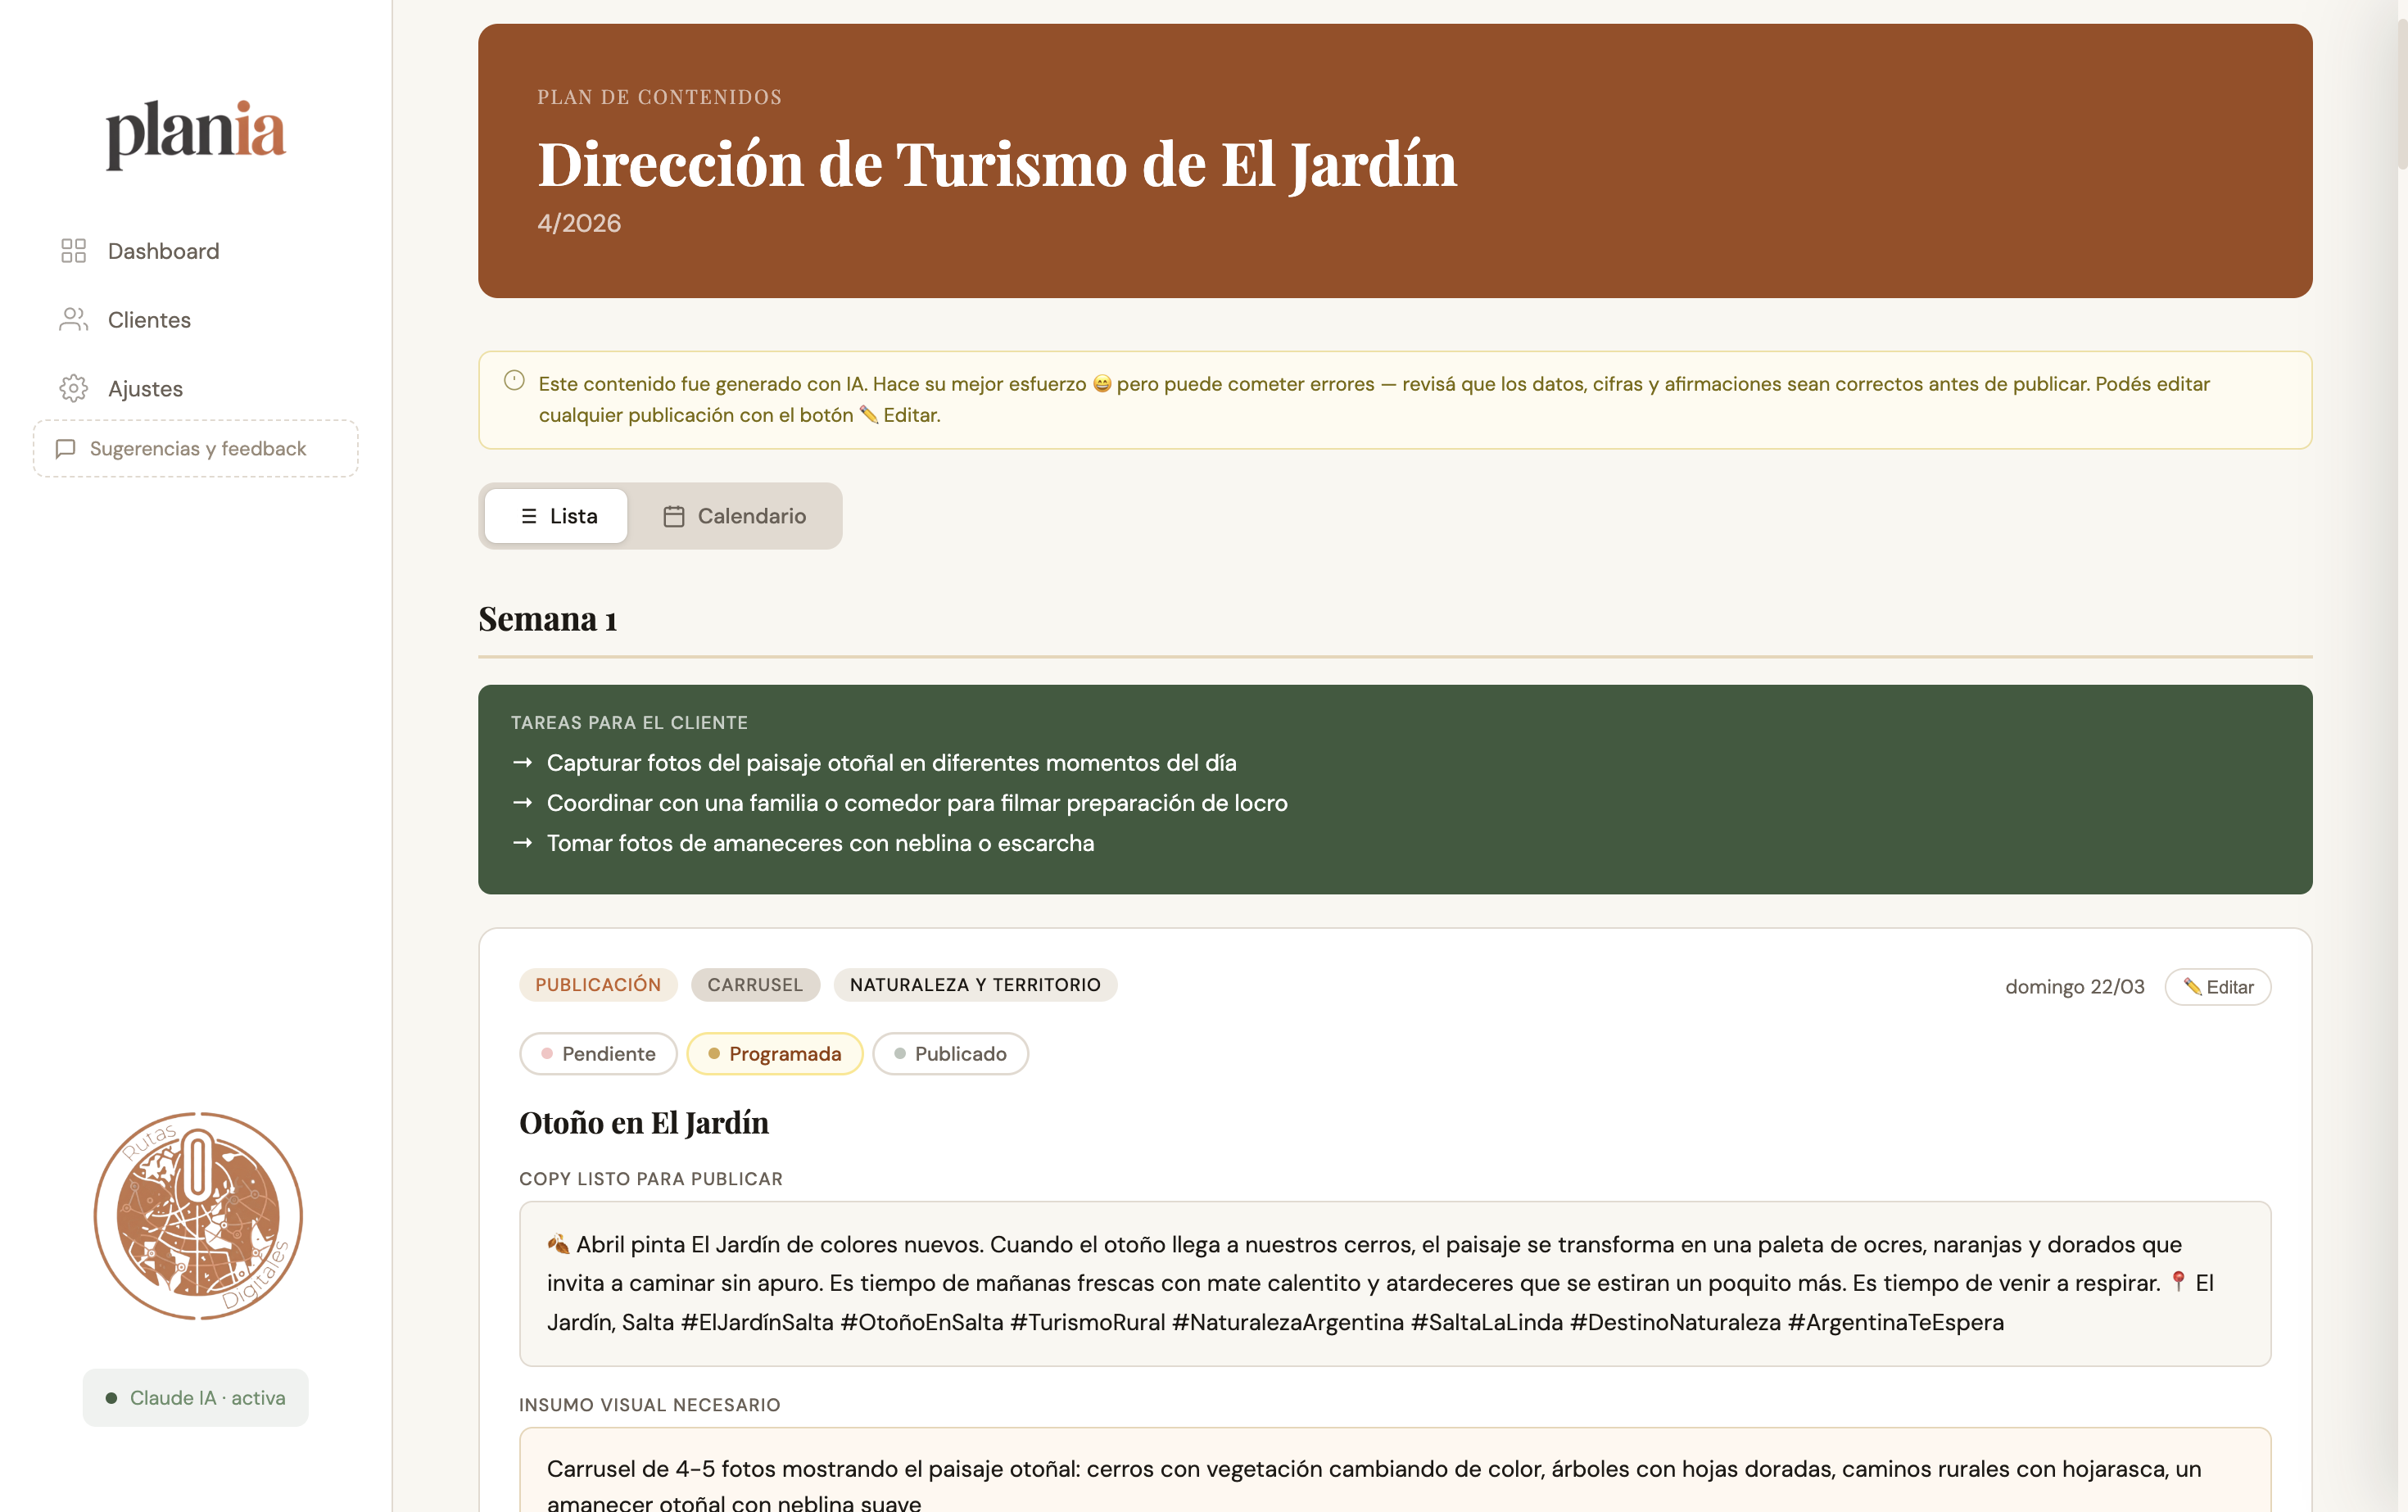
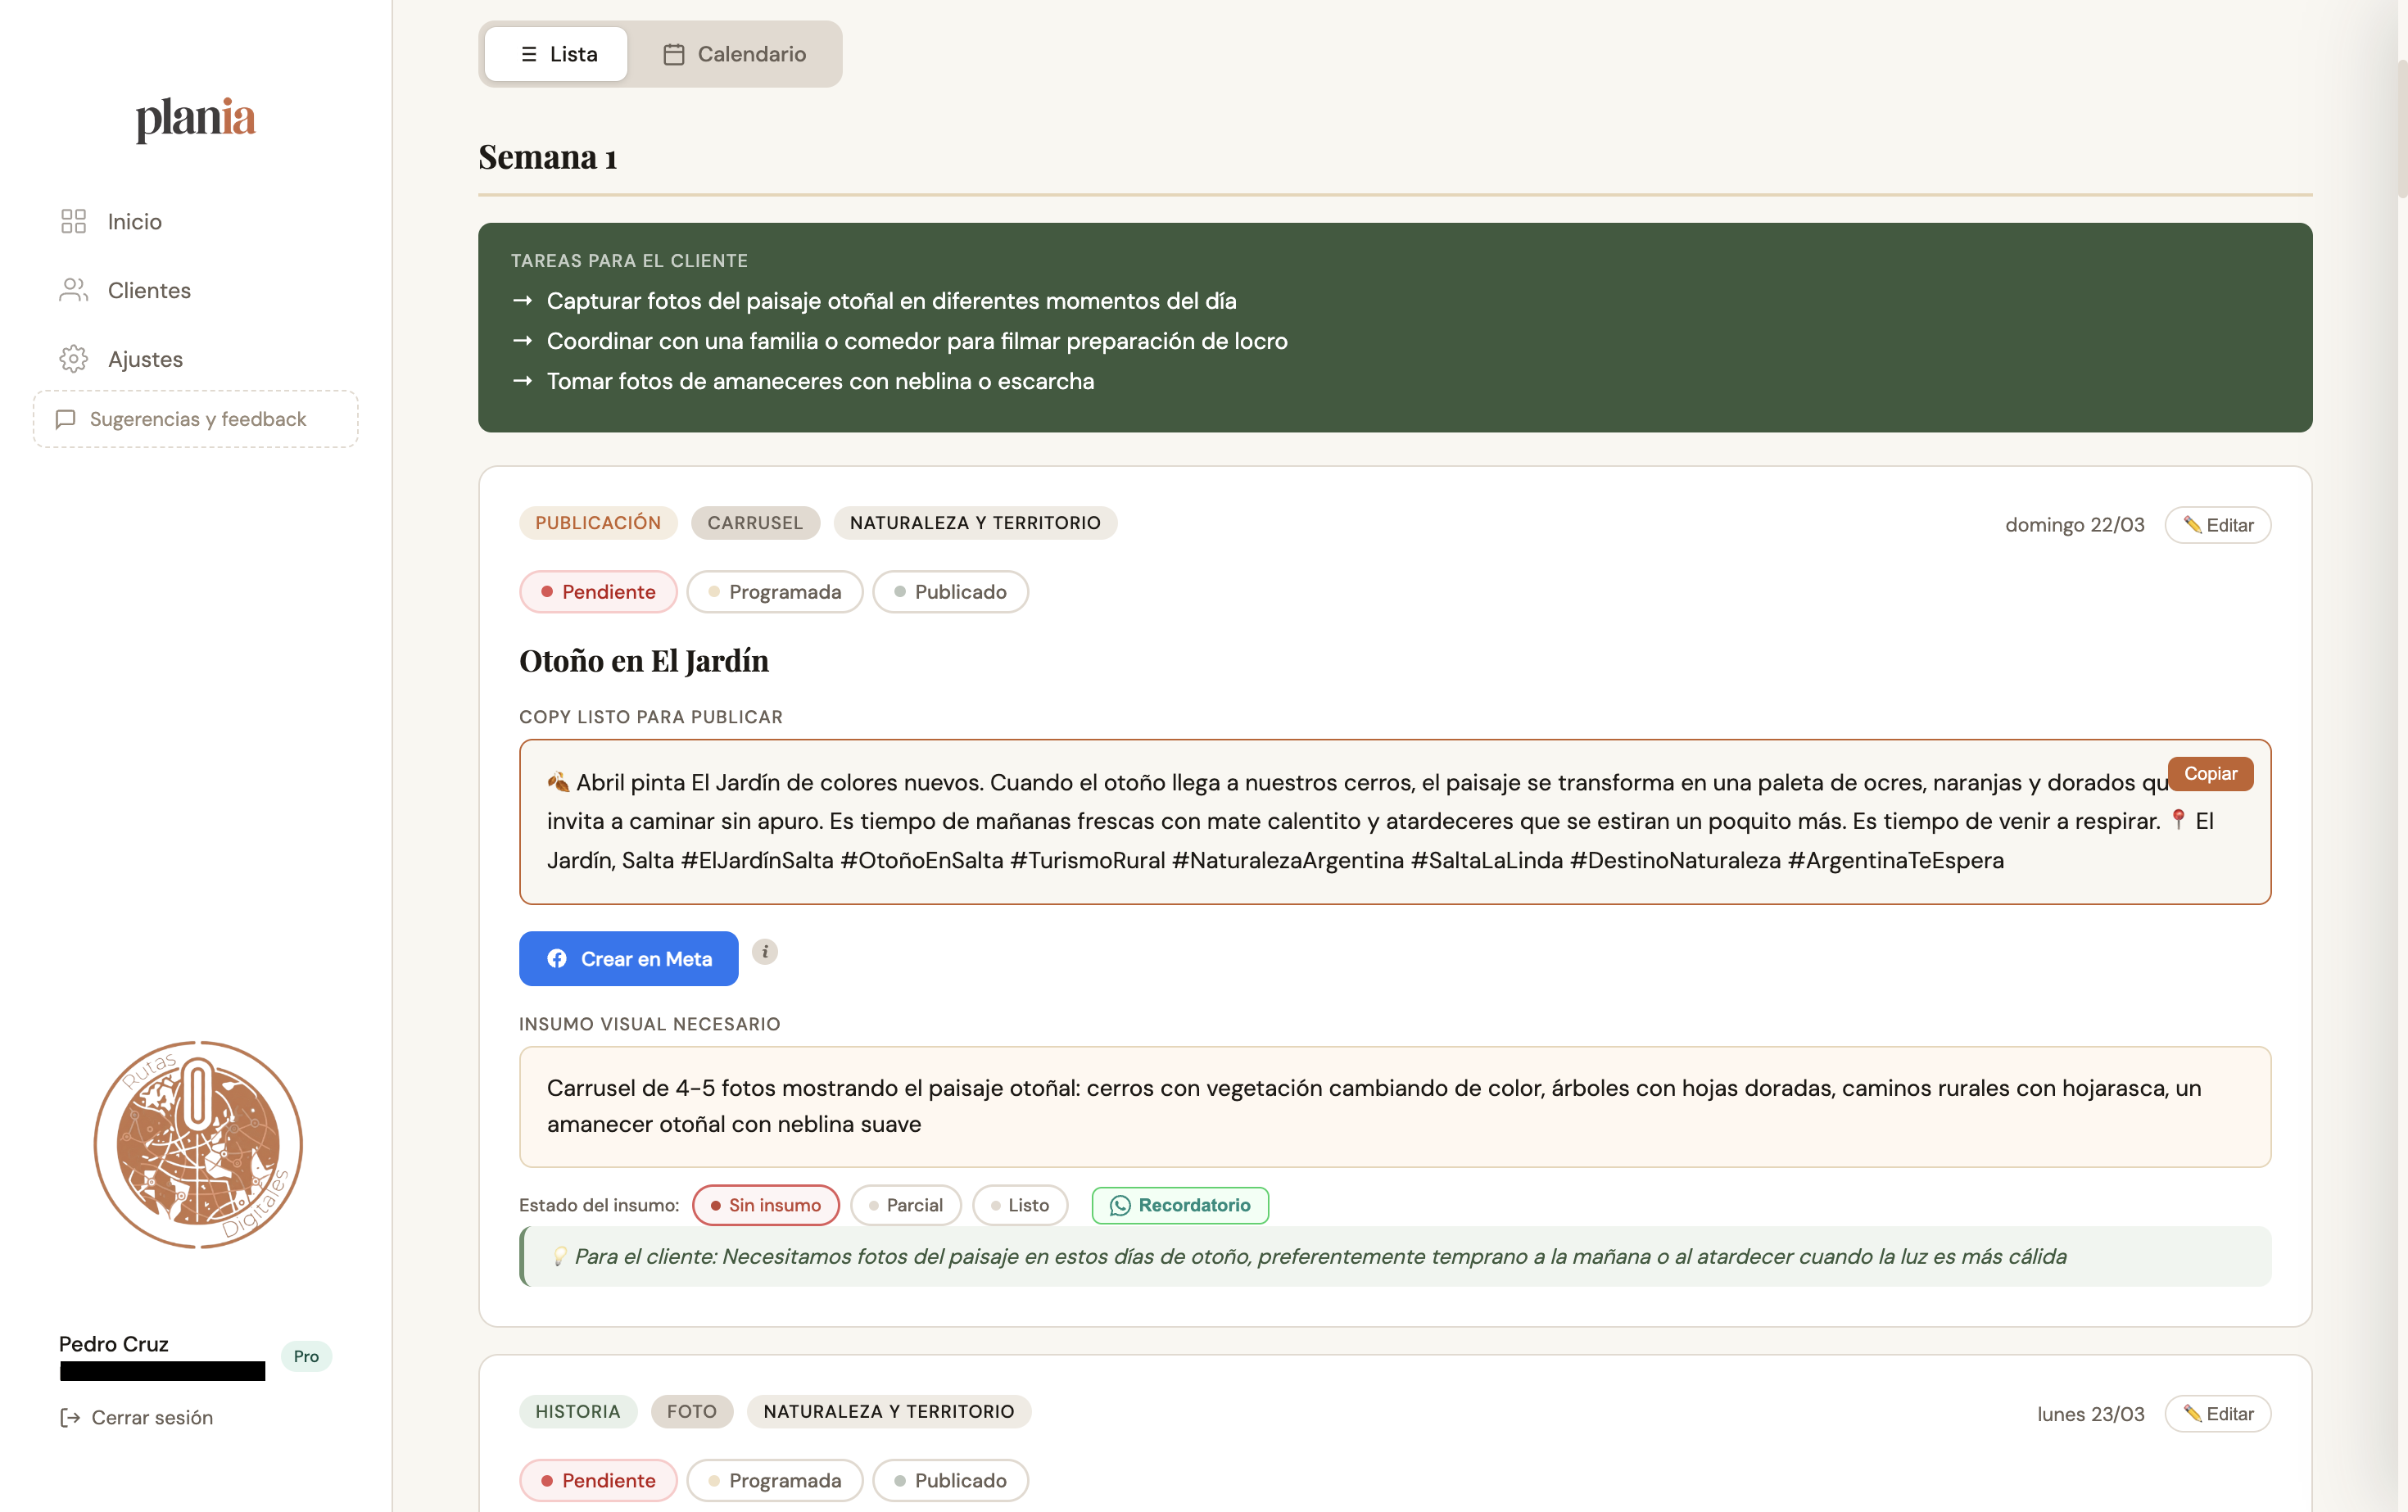
mejoras de los textos y cambio de imagenes

diff --git a/index.html b/index.html
@@ -3,9 +3,9 @@
 <head>
   <meta charset="UTF-8">
   <meta name="viewport" content="width=device-width, initial-scale=1.0">
-  <title>PlanIA · Tu estrategia de redes sociales, con IA</title>
-  <meta name="description" content="PlanIA genera planes de contenido mensuales completos con inteligencia artificial. Copy listo para publicar, métricas reales de Instagram y Facebook, e informes PDF para tus clientes. Para community managers y dueños de negocio.">
-  <meta name="keywords" content="planificación de contenido, community manager, redes sociales, inteligencia artificial, Instagram, Facebook, métricas, plan de contenidos, herramienta CM, PlanIA">
+  <title>PlanIA · Herramienta con IA para Community Managers y Gestores de Redes Sociales</title>
+  <meta name="description" content="PlanIA es la herramienta de escritorio con inteligencia artificial para community managers y gestores de redes sociales. Generá planes de contenido mensuales completos con copy listo para publicar, métricas reales de Instagram y Facebook, e informes PDF profesionales. Para quienes gestionan redes sociales de uno o varios negocios.">
+  <meta name="keywords" content="community manager, gestor de redes sociales, gestión de redes sociales, herramienta community manager, planificación de contenido, plan de contenidos, redes sociales, inteligencia artificial, IA, Instagram, Facebook, métricas redes sociales, informe redes sociales, social media manager, herramienta CM, PlanIA">
   <meta name="author" content="Rutas Digitales">
   <meta name="robots" content="index, follow">
   <link rel="icon" type="image/png" href="favicon.png">
@@ -15,16 +15,16 @@
   <!-- Open Graph -->
   <meta property="og:type" content="website">
   <meta property="og:url" content="https://planiat.com/">
-  <meta property="og:title" content="PlanIA · Tu estrategia de redes sociales, con IA">
-  <meta property="og:description" content="Generá planes de contenido completos en minutos con IA. Copy listo, métricas reales e informes para clientes.">
+  <meta property="og:title" content="PlanIA · Herramienta con IA para Community Managers y Gestores de Redes Sociales">
+  <meta property="og:description" content="Generá planes de contenido mensuales completos con IA. Copy listo, métricas reales de Instagram y Facebook, e informes PDF profesionales para tus clientes.">
   <meta property="og:image" content="https://planiat.com/assets/images/og-image.jpg">
   <meta property="og:locale" content="es_AR">
   <meta property="og:site_name" content="PlanIA">
 
   <!-- Twitter Card -->
   <meta name="twitter:card" content="summary_large_image">
-  <meta name="twitter:title" content="PlanIA · Tu estrategia de redes sociales, con IA">
-  <meta name="twitter:description" content="Generá planes de contenido completos en minutos con IA.">
+  <meta name="twitter:title" content="PlanIA · Herramienta con IA para Community Managers">
+  <meta name="twitter:description" content="Planes de contenido mensuales con IA, métricas reales de Meta e informes PDF. Para community managers y gestores de redes sociales.">
   <meta name="twitter:image" content="https://planiat.com/assets/images/og-image.jpg">
 
   <!-- Schema.org -->
@@ -33,7 +33,7 @@
     "@context": "https://schema.org",
     "@type": "SoftwareApplication",
     "name": "PlanIA",
-    "description": "Herramienta de escritorio para community managers que genera planes de contenido con inteligencia artificial, analiza métricas de Instagram y Facebook y produce informes PDF para clientes.",
+    "description": "Herramienta de escritorio con inteligencia artificial para community managers y gestores de redes sociales. Genera planes de contenido mensuales con copy listo para publicar, analiza métricas de Instagram y Facebook, y produce informes PDF profesionales para clientes.",
     "url": "https://planiat.com",
     "applicationCategory": "BusinessApplication",
     "operatingSystem": "macOS, Windows",
@@ -101,12 +101,12 @@
     </div>
 
     <h1 class="reveal">
-      Del briefing al plan de contenidos<br>
+      De la idea al plan de contenidos<br>
       <em>en minutos, no en días</em>
     </h1>
 
     <p class="hero-sub reveal">
-      PlanIA usa inteligencia artificial para generar planes de contenido mensuales completos: copy listo para publicar, métricas reales de Instagram y Facebook, e informes profesionales para tus clientes.
+      PlanIA es la herramienta con inteligencia artificial que ayuda a community managers y gestores de redes sociales a generar planes de contenido mensuales completos. Vos ponés la creatividad y el conocimiento del cliente — PlanIA se encarga del trabajo operativo.
     </p>
 
     <div class="hero-proof reveal">
@@ -156,11 +156,11 @@
 <div class="stats-band">
   <div class="container">
     <div class="stat-item reveal">
-      <div class="stat-num">4hs</div>
+      <div class="stat-num">+ de 6hs</div>
       <div class="stat-label">de trabajo que te ahorrás<br>por cliente por mes</div>
     </div>
     <div class="stat-item reveal">
-      <div class="stat-num">30+</div>
+      <div class="stat-num">+ de 30</div>
       <div class="stat-label">publicaciones con copy<br>listas en un solo plan</div>
     </div>
     <div class="stat-item reveal">
@@ -169,7 +169,7 @@
     </div>
     <div class="stat-item reveal">
       <div class="stat-num">0</div>
-      <div class="stat-label">datos en la nube<br>todo queda en tu compu</div>
+      <div class="stat-label">datos recopilados de forma oculta<br>todo queda en tu compu</div>
     </div>
   </div>
 </div>
@@ -180,7 +180,7 @@
   <div class="container">
     <div class="for-who-header">
       <div class="label">Para quién es</div>
-      <h2>Pensado para quienes crean contenido <em>de verdad</em></h2>
+      <h2>Pensado para quienes gestionan redes sociales <em>de verdad</em></h2>
     </div>
 
     <div class="fw-card reveal">
@@ -193,14 +193,14 @@
             <path d="M16 3.13a4 4 0 0 1 0 7.75"/>
           </svg>
         </div>
-        <h3>Community Managers</h3>
+        <h3>Community Managers y Gestores de Redes</h3>
       </div>
-      <p class="subtitle">Si manejás varias cuentas, PlanIA te da un flujo profesional de principio a fin: perfil estratégico → plan mensual con copy → seguimiento de publicaciones → informe de métricas listo para enviar. Todo desde una sola herramienta.</p>
+      <p class="subtitle">Si manejás las redes de varios clientes, PlanIA te da un flujo profesional de principio a fin: perfil estratégico → plan mensual con copy → seguimiento de publicaciones → informe de métricas listo para enviar. La IA no reemplaza tu criterio — lo potencia para que puedas dedicar más tiempo a la estrategia y menos a la operativa.</p>
       <ul class="fw-list">
         <li>Gestioná múltiples clientes desde un solo lugar</li>
         <li>Plan mensual completo con copy listo para cada publicación</li>
-        <li>Dashboard diario con publicaciones próximas e insumos pendientes</li>
-        <li>Informe de métricas PDF para presentarle al cliente cada mes</li>
+        <li>Panel de inicio diario con publicaciones próximas e insumos pendientes</li>
+        <li>Informe de resultados, métricas, conclusiones y propuestas, en PDF para presentarle al cliente cada mes</li>
         <li>Notas privadas por cliente para no perder contexto</li>
         <li>Exportá el perfil estratégico en PDF para validar y firmar</li>
       </ul>
@@ -216,9 +216,9 @@
         </div>
         <h3>Dueños de negocio</h3>
       </div>
-      <p class="subtitle">Si manejás tus propias redes y querés publicar con estrategia en vez de improvisar, PlanIA entiende tu negocio, define tu voz y genera un plan mensual adaptado a tus objetivos y tu audiencia.</p>
+      <p class="subtitle">Si manejás tus propias redes y querés publicar con estrategia en vez de improvisar, PlanIA entiende tu negocio, define tu voz y genera un plan mensual adaptado a tus objetivos. Tu inteligencia emocional y tu conocimiento del negocio son irreemplazables — PlanIA te da la estructura para aprovecharlo mejor.</p>
       <ul class="fw-list">
-        <li>Perfil estratégico del negocio generado con IA (tono, diferencial, ejes)</li>
+        <li>Perfil estratégico del negocio generado con IA (tono, diferencial, ejes de comunicación, público objetivo)</li>
         <li>Publicaciones con copy, hashtags, formato e insumos visuales sugeridos</li>
         <li>Guía mensual de tareas: qué fotos sacar, qué preparar antes de publicar</li>
         <li>Métricas reales de tu Instagram y Facebook en un solo lugar</li>
@@ -239,14 +239,16 @@
         <div class="feat-text reveal-left">
           <div class="feat-tag">Generación con IA</div>
           <h3>Un plan mensual completo.<br>Copy incluido.</h3>
-          <p>No solo títulos ni ideas sueltas. PlanIA genera cada publicación con el texto completo listo para copiar y pegar, el formato recomendado, el eje de comunicación, los hashtags, los insumos visuales y las tareas del cliente.</p>
+          <p>No solo títulos ni ideas sueltas. PlanIA genera cada publicación con el texto completo listo para crear la publicación en Meta Business, el formato recomendado, el eje de comunicación, los hashtags, los insumos visuales y las tareas del cliente.</p>
           <ul class="feat-list">
             <li><span class="ico">✓</span> Copy completo y listo para publicar en cada post</li>
+            <li><span class="ico">✓</span> Tendencias web del sector inyectadas automáticamente en el plan</li>
             <li><span class="ico">✓</span> Vista lista y vista calendario del plan</li>
-            <li><span class="ico">✓</span> Tareas para el cliente organizadas semana a semana</li>
+            <li><span class="ico">✓</span> Regeneración con instrucciones: pedile cambios específicos a la IA</li>
             <li><span class="ico">✓</span> Edición de cualquier publicación directamente en la app</li>
-            <li><span class="ico">✓</span> Exportación del plan completo en PDF</li>
+            <li><span class="ico">✓</span> Exportación del plan completo y guía de insumos para el cliente en PDF</li>
             <li><span class="ico">✓</span> Seguimiento de estado: pendiente, programada, publicada</li>
+            <li><span class="ico">✓</span> Botón de Whatsapp para enviar al cliente el recordatorio de los insumos pendientes</li>
           </ul>
         </div>
         <div class="feat-img reveal-right">
@@ -264,8 +266,8 @@
       <div class="feat flip">
         <div class="feat-text reveal-right">
           <div class="feat-tag">Perfil estratégico del cliente</div>
-          <h3>La IA que entiende el negocio antes de crear</h3>
-          <p>Antes de escribir una sola publicación, PlanIA construye un perfil estratégico completo del negocio. Eso hace que cada plan generado esté anclado en la realidad del cliente.</p>
+          <h3>La IA entiende el negocio.<br>Vos le das la dirección.</h3>
+          <p>Antes de escribir una sola publicación, PlanIA construye un perfil estratégico completo del negocio. Vos lo revisás, ajustás lo que haga falta y lo validás con el cliente. Eso hace que cada plan generado esté anclado en la realidad del negocio y en tu criterio como profesional.</p>
           <ul class="feat-list">
             <li><span class="ico">✓</span> Diferencial y propuesta de valor del negocio</li>
             <li><span class="ico">✓</span> Tono de comunicación único para ese cliente</li>
@@ -290,15 +292,15 @@
       <div class="feat">
         <div class="feat-text reveal-left">
           <div class="feat-tag">Métricas reales de Meta</div>
-          <h3>Informes de métricas que te toman 10 minutos, no 2 horas</h3>
-          <p>Conectás la cuenta del cliente con Meta y PlanIA trae sus datos reales. Después la IA escribe el informe en lenguaje simple, listo para enviar en PDF.</p>
+          <h3>Informes de resultados y métricas que te toman minutos, no horas</h3>
+          <p>Conectás la cuenta del cliente con Meta y PlanIA trae sus datos reales de Instagram y Facebook. Después la IA escribe el informe en lenguaje simple — vos lo revisás, ajustás lo que necesites y lo exportás en PDF listo para enviar.</p>
           <ul class="feat-list">
             <li><span class="ico">✓</span> Métricas de Instagram y Facebook en un solo panel</li>
             <li><span class="ico">✓</span> Seguidores, alcance, impresiones e interacciones (últimos 28-30 días)</li>
             <li><span class="ico">✓</span> Ranking de publicaciones por engagement real</li>
             <li><span class="ico">✓</span> Enlace directo a cada post para ver en Instagram</li>
-            <li><span class="ico">✓</span> Informe narrativo generado con IA, exportable en PDF</li>
-            <li><span class="ico">✓</span> Datos actualizables cuando querés, no en tiempo real</li>
+            <li><span class="ico">✓</span> Informe narrativo generado con IA, editable antes de exportar</li>
+            <li><span class="ico">✓</span> Datos actualizables cuando querés</li>
           </ul>
         </div>
         <div class="feat-img reveal-right">
@@ -317,7 +319,7 @@
         <div class="feat-text reveal-right">
           <div class="feat-tag">Demografía de la audiencia</div>
           <h3>Conocé a quién le hablás de verdad</h3>
-          <p>PlanIA trae los datos demográficos reales de la audiencia de Instagram: cómo se distribuyen por edad y género, desde qué ciudades y países te siguen.</p>
+          <p>PlanIA trae los datos demográficos reales de la audiencia de <strong>Instagram:</strong> cómo se distribuyen por edad y género, desde qué ciudades y países te siguen.</p>
           <ul class="feat-list">
             <li><span class="ico">✓</span> Distribución por edad y género de los seguidores</li>
             <li><span class="ico">✓</span> Top ciudades y países de la audiencia</li>
@@ -343,11 +345,11 @@
           <h3>Arrancá el día sabiendo exactamente qué hacer</h3>
           <p>El dashboard de PlanIA es tu centro de operaciones diario. De un vistazo sabés qué publicaciones vencen pronto, qué insumos visuales te faltan y en qué estado están tus clientes.</p>
           <ul class="feat-list">
-            <li><span class="ico">✓</span> Publicaciones próximas de todos los clientes (hoy, mañana, pasado)</li>
+            <li><span class="ico">✓</span> Calendario de publicaciones con vista semanal o mensual</li>
+            <li><span class="ico">✓</span> Publicaciones próximas de todos los clientes (7 días)</li>
             <li><span class="ico">✓</span> Insumos visuales pendientes con anticipación a la fecha</li>
             <li><span class="ico">✓</span> Estado de cada cliente: planes activos y conexión con Meta</li>
             <li><span class="ico">✓</span> Acceso directo al plan del cliente con un clic</li>
-            <li><span class="ico">✓</span> Recordatorio de insumos por WhatsApp al cliente</li>
           </ul>
         </div>
         <div class="feat-img reveal-right">
@@ -388,8 +390,8 @@
       </div>
       <div class="step reveal">
         <div class="step-num">4</div>
-        <h4>Revisás y ajustás</h4>
-        <p>Editás lo que necesites, confirmás el estado de insumos y exportás en PDF para el cliente.</p>
+        <h4>Revisás, ajustás y aprobás</h4>
+        <p>Editás lo que necesites con tu criterio profesional, confirmás insumos y exportás en PDF para el cliente.</p>
       </div>
       <div class="step reveal">
         <div class="step-num">5</div>
@@ -442,14 +444,14 @@
           <li>PDFs ilimitados</li>
           <li>Soporte por WhatsApp</li>
         </ul>
-        <a href="#" class="btn-p btn-p-outline">Elegir Starter</a>
+        <a href="https://github.com/pcruzf1988/cm-planner-releases/releases/latest" target="_blank" rel="noopener" class="btn-p btn-p-outline">Elegir Starter</a>
       </div>
 
       <div class="pricing-card hot reveal">
         <div class="hot-badge">⭐ Más popular</div>
         <div class="p-tier">Pro</div>
         <div class="p-price"><sup>$</sup>22<span class="period"> / mes USD</span></div>
-        <div class="p-desc">Para community managers independientes.</div>
+        <div class="p-desc">Para community managers y gestores de redes independientes.</div>
         <hr class="p-divider">
         <ul class="p-list">
           <li>Hasta 8 clientes</li>
@@ -460,13 +462,13 @@
           <li>PDFs ilimitados</li>
           <li>Soporte prioritario por WhatsApp</li>
         </ul>
-        <a href="#" class="btn-p btn-p-white">Elegir Pro</a>
+        <a href="https://github.com/pcruzf1988/cm-planner-releases/releases/latest" target="_blank" rel="noopener" class="btn-p btn-p-white">Elegir Pro</a>
       </div>
 
       <div class="pricing-card reveal">
         <div class="p-tier">Agencia</div>
         <div class="p-price"><sup>$</sup>35<span class="period"> / mes USD</span></div>
-        <div class="p-desc">Para agencias o CMs con cartera grande.</div>
+        <div class="p-desc">Para agencias de marketing digital o CMs con cartera grande.</div>
         <hr class="p-divider">
         <ul class="p-list">
           <li>Hasta 25 clientes</li>
@@ -477,7 +479,7 @@
           <li>PDFs ilimitados</li>
           <li>Soporte prioritario por WhatsApp</li>
         </ul>
-        <a href="#" class="btn-p btn-p-outline">Elegir Agencia</a>
+        <a href="https://github.com/pcruzf1988/cm-planner-releases/releases/latest" target="_blank" rel="noopener" class="btn-p btn-p-outline">Elegir Agencia</a>
       </div>
 
     </div>
@@ -485,13 +487,13 @@
     <div class="social-strip reveal">
       <div>
         <h4>¿Sos ONG, fundación o asociación sin fines de lucro?</h4>
-        <p>Las organizaciones que trabajan para construir un mundo mejor merecen las mismas herramientas. Contanos tu caso y lo evaluamos.</p>
+        <p>Contanos tu caso para que analicemos en qué podemos contribuir.</p>
       </div>
       <a href="https://wa.me/5492281655190?text=Hola!%20Somos%20una%20organizaci%C3%B3n%20sin%20fines%20de%20lucro%20y%20nos%20interesa%20PlanIA." target="_blank" rel="noopener" class="btn-verde">Consultar plan Social</a>
     </div>
 
     <p class="pricing-note">
-      Pagos en USD · MercadoPago (Argentina y Latam) · Pagos internacionales próximamente · Tus datos se guardan en tu computadora, no en servidores externos
+      Pagos en pesos argentinos con MercadoPago (tarjeta de crédito) · Pagos internacionales próximamente · Los planes se contratan dentro de la app después de descargarla · Tus datos se guardan en tu computadora, no en servidores externos
     </p>
   </div>
 </section>
@@ -506,10 +508,18 @@
 
   <div class="faq-item reveal">
     <button class="faq-q">
+      ¿PlanIA reemplaza al community manager?
+      <svg class="arr" width="18" height="18" viewBox="0 0 24 24" fill="none" stroke="currentColor" stroke-width="2"><polyline points="6 9 12 15 18 9"/></svg>
+    </button>
+    <div class="faq-a">No, y ese nunca fue el objetivo. PlanIA es una herramienta que <strong>optimiza el flujo de trabajo</strong> del community manager o gestor de redes sociales. La inteligencia emocional, la creatividad, el conocimiento profundo del cliente y la capacidad de interpretar el contexto son habilidades humanas que ninguna IA puede reemplazar. Lo que PlanIA sí hace es ahorrarte horas de trabajo operativo — generando borradores de planes, armando informes de métricas y organizando tu día a día — para que puedas invertir ese tiempo en lo que realmente importa.</div>
+  </div>
+
+  <div class="faq-item reveal">
+    <button class="faq-q">
       ¿PlanIA publica automáticamente en Instagram o Facebook?
       <svg class="arr" width="18" height="18" viewBox="0 0 24 24" fill="none" stroke="currentColor" stroke-width="2"><polyline points="6 9 12 15 18 9"/></svg>
     </button>
-    <div class="faq-a">No, PlanIA genera el plan y el copy completo de cada publicación, pero la publicación la hacés vos manualmente en cada red social. Esto es intencional — la mayoría de los CMs prefiere tener control total sobre qué se publica y cuándo.</div>
+    <div class="faq-a">No, PlanIA genera el plan y el copy completo de cada publicación, con botón para crear directamente en Meta Business o copiar y pegar en la plataforma que prefieras. Esto es intencional — la mayoría de los community managers y gestores de redes prefiere tener control total sobre los detalles de cada publicación en la plataforma que corresponde.</div>
   </div>
 
   <div class="faq-item reveal">
@@ -541,7 +551,7 @@
       ¿El contenido generado por la IA es de buena calidad?
       <svg class="arr" width="18" height="18" viewBox="0 0 24 24" fill="none" stroke="currentColor" stroke-width="2"><polyline points="6 9 12 15 18 9"/></svg>
     </button>
-    <div class="faq-a">Muy buena para la mayoría de los casos. PlanIA no usa un modelo genérico — construye el perfil estratégico del negocio antes de crear el plan, lo que hace que el contenido sea mucho más relevante y personalizado. Siempre recomendamos revisar los datos específicos (precios, fechas, afirmaciones sobre el negocio) antes de publicar, y podés editar cualquier publicación directamente en la app.</div>
+    <div class="faq-a">Muy buena y un excelente punto de partida. PlanIA no usa un modelo genérico — construye el perfil estratégico del negocio antes de crear el plan, e incorpora tendencias web actuales del sector y métricas reales de las redes del cliente. Eso hace que el contenido sea mucho más relevante y personalizado. Dicho esto, <strong>siempre recomendamos que el community manager revise y ajuste</strong> antes de publicar. La IA genera la estructura y el copy base; tu creatividad, tu conocimiento del cliente y tu criterio profesional son los que lo convierten en algo auténtico.</div>
   </div>
 
   <div class="faq-item reveal">
@@ -565,7 +575,7 @@
       ¿Puedo cancelar en cualquier momento?
       <svg class="arr" width="18" height="18" viewBox="0 0 24 24" fill="none" stroke="currentColor" stroke-width="2"><polyline points="6 9 12 15 18 9"/></svg>
     </button>
-    <div class="faq-a">Sí, sin permanencia ni penalidades. Y tus datos siempre quedan en tu computadora — al cancelar no perdés nada de lo que tenés guardado.</div>
+    <div class="faq-a">Sí, sin permanencia ni penalidades. Y tus datos siempre quedan en tu computadora — antes de cancelar te recomendamos ir a Ajustes y guardar un Respaldo de datos. Los mismos se pueden importar a PlanIA si más adelante decidís volver a utilizarlo. Cancelación: podés cancelar tu suscripción en cualquier momento. La cancelación tiene efecto al final del período facturado. No realizamos reembolsos proporcionales por los días no utilizados del mes en curso, salvo que la cancelación sea consecuencia de un fallo atribuible a PlanIA.</div>
   </div>
 
 </section>
@@ -575,6 +585,20 @@
 <section class="trust-section">
   <div class="container">
     <div class="trust-grid">
+
+      <div class="trust-card reveal">
+        <div class="trust-icon">
+          <svg width="28" height="28" viewBox="0 0 24 24" fill="none" stroke="#C4622D" stroke-width="1.5">
+            <path d="M20.84 4.61a5.5 5.5 0 00-7.78 0L12 5.67l-1.06-1.06a5.5 5.5 0 00-7.78 7.78l1.06 1.06L12 21.23l7.78-7.78 1.06-1.06a5.5 5.5 0 000-7.78z"/>
+          </svg>
+        </div>
+        <h3>PlanIA no reemplaza al community manager</h3>
+        <p>La inteligencia emocional, la creatividad y el conocimiento profundo del cliente son cosas que solo una persona puede aportar. PlanIA es una <strong>herramienta que optimiza tu flujo de trabajo</strong> — genera la estructura y el contenido base para que vos puedas dedicar más tiempo a lo que realmente importa: la estrategia, la relación con el cliente y la creatividad.</p>
+        <div class="trust-badge trust-badge-warm">
+          <svg width="14" height="14" viewBox="0 0 24 24" fill="none" stroke="currentColor" stroke-width="2.5"><polyline points="20 6 9 17 4 12"/></svg>
+          La IA propone · Vos decidís
+        </div>
+      </div>
 
       <div class="trust-card reveal">
         <div class="trust-icon">
@@ -600,7 +624,7 @@
           </svg>
         </div>
         <h3>Tu opinión construye PlanIA</h3>
-        <p>No medimos lo que hacés, pero nos importa mucho lo que pensás. Dentro de la app vas a encontrar un botón de <strong>sugerencias y feedback</strong> — cada mensaje lo leemos personalmente. Si la mayoría de los usuarios coincide en una mejora o funcionalidad nueva, hacemos todo lo posible por implementarla. PlanIA crece con la comunidad que la usa.</p>
+        <p>Como no medimos lo que hacés en la app, la forma en que PlanIA crece y mejora es <strong>junto con las personas que la usan</strong>. Dentro de la app vas a encontrar un botón de sugerencias y feedback — cada mensaje lo leemos personalmente. Si una mejora es solicitada por la mayoría de los usuarios, hacemos todo lo posible por implementarla.</p>
         <div class="trust-badge trust-badge-warm">
           <svg width="14" height="14" viewBox="0 0 24 24" fill="none" stroke="currentColor" stroke-width="2.5"><polyline points="20 6 9 17 4 12"/></svg>
           Mejora continua basada en feedback real
@@ -620,9 +644,9 @@
   </div>
   <div class="container">
     <h2 class="reveal">
-      El próximo plan mensual<br>lo terminás hoy.
+      Más tiempo para la estrategia.<br>Menos tiempo en la operativa.
     </h2>
-    <p class="reveal">Probá PlanIA gratis. Sin tarjeta, sin vencimiento.</p>
+    <p class="reveal">Probá PlanIA gratis. Sin tarjeta, sin vencimiento, sin compromiso.</p>
     <a href="https://github.com/pcruzf1988/cm-planner-releases/releases/latest" target="_blank" rel="noopener" class="btn btn-white btn-lg reveal">
       Descargar la prueba gratuita
       <svg width="16" height="16" viewBox="0 0 24 24" fill="none" stroke="currentColor" stroke-width="2.5"><path d="M21 15v4a2 2 0 01-2 2H5a2 2 0 01-2-2v-4"/><polyline points="7 10 12 15 17 10"/><line x1="12" y1="15" x2="12" y2="3"/></svg>

diff --git a/css/main.css b/css/main.css
@@ -699,11 +699,11 @@ a   { text-decoration: none; color: inherit; }
     0 4px 16px rgba(196,98,45,.2),
     0 16px 48px rgba(196,98,45,.15),
     0 0 0 1px rgba(196,98,45,.3);
-  overflow: hidden;
 }
 .pricing-card.hot::before {
   content: '';
   position: absolute; inset: 0;
+  border-radius: inherit;
   background:
     radial-gradient(ellipse at 30% 0%, rgba(255,255,255,.12), transparent 50%),
     radial-gradient(ellipse at 70% 100%, rgba(0,0,0,.08), transparent 50%);
@@ -1013,9 +1013,9 @@ footer img:hover { opacity: .85; }
 
 .trust-grid {
   display: grid;
-  grid-template-columns: 1fr 1fr;
+  grid-template-columns: 1fr 1fr 1fr;
   gap: 24px;
-  max-width: 900px;
+  max-width: 1100px;
   margin: 0 auto;
 }
 